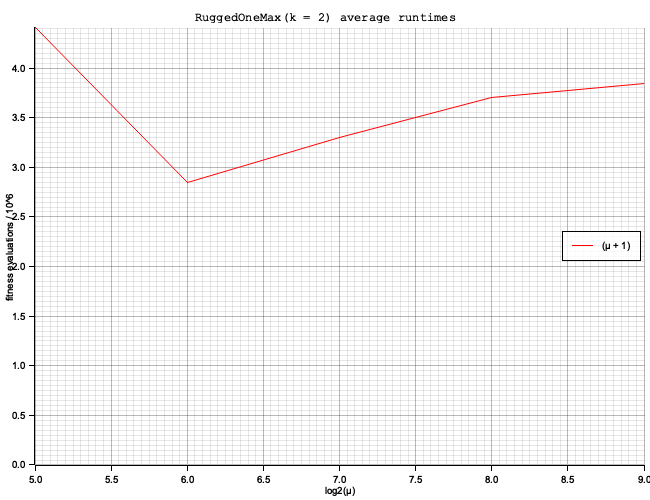
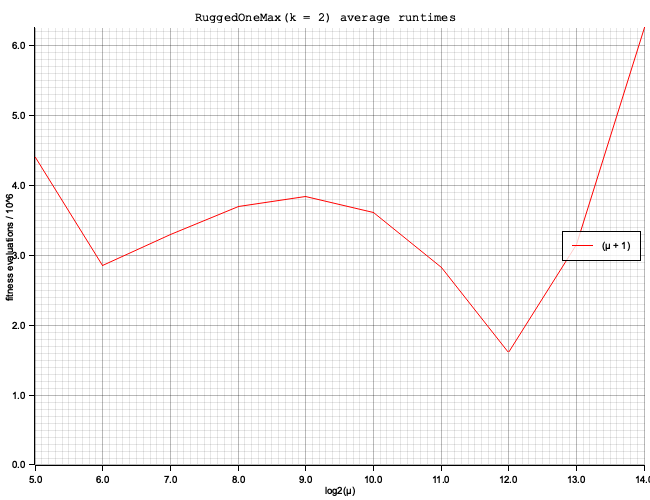
:arrow_up: RuggedOneMax(k = 2), n = 15, (μ + 1) results

Changed region(s): [[0.0, 0.06, 1.0, 0.99], [0.9846, 0.93, 1.0, 0.99]]

diff --git a/src/experiment/rugged_runtime/draw.rs b/src/experiment/rugged_runtime/draw.rs
@@ -537,6 +537,11 @@ fn draw_rugged_optimal_15() {
                 (128.0, 3296180.109375),
                 (256.0, 3699597.296875),
                 (512.0, 3840366.1640625),
+                (1024.0, 3608969.59375),
+                (2048.0, 2825939.6015625),
+                (4096.0, 1617365.96875),
+                (8192.0, 3159271.8046875),
+                (16384.0, 6255860.5859375),
             ],
         ),
         ("(1 + (λ, λ))", vec![]),
